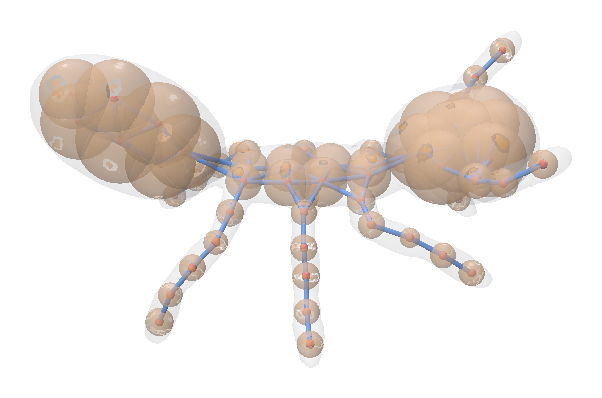
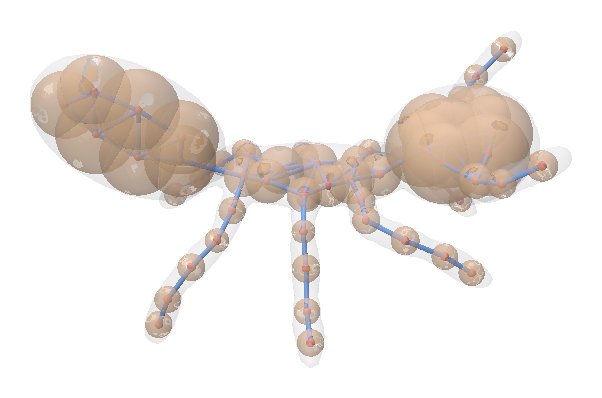
Use the Q-MAT copy with the anchored-edge ordering fix for the skeleton connection; update figures

diff --git a/README.md b/README.md
@@ -85,7 +85,7 @@ conda activate CA
 pip install -r requirements.txt
 ```
 
-The skeleton connection step for mesh inputs uses [Q-MAT](https://github.com/Net-Maker/QMAT) (submodule `skel_connection/QMAT`, C++). It needs CGAL, GMP and MPFR; on Ubuntu:
+The skeleton connection step for mesh inputs uses [Q-MAT](https://github.com/Frank-ZY-Dou/QMAT) (submodule `skel_connection/QMAT`, C++; our copy of [Net-Maker/QMAT](https://github.com/Net-Maker/QMAT) with a fix in the simplification with selected poles, see below). It needs CGAL, GMP and MPFR; on Ubuntu:
 ```angular2html
 sudo apt install cmake build-essential libcgal-dev libgmp-dev libmpfr-dev
 cd skel_connection/QMAT && mkdir build && cd build && cmake -DCMAKE_BUILD_TYPE=Release .. && make -j4 && cd ../../..
@@ -151,6 +151,8 @@ Instead of the vertices of the medial axis, randomly generated points inside the
 python Coverage_Axis_connection.py --mesh ./input/01Ants-12_mesh.off --ma ./input/01Ants-12_mesh.ma --selected ./output/mesh_selected_inner_points.txt --out ./output/mesh_skeleton
 ```
 connects the selected inner points into a skeleton following Sec. 4.3 of the Coverage Axis paper (mesh input with candidates from the Voronoi diagram): the selected points are anchors on the initial medial axis, which is simplified onto them by the edge collapse of Q-MAT. An edge whose two endpoints are anchors is never collapsed, an edge with one anchor endpoint is collapsed onto the anchor, and an edge without anchor endpoints is collapsed onto the optimal sphere of Q-MAT, until only the anchors remain; the skeleton therefore inherits the connectivity of the medial axis. The script runs mode 2 of the Q-MAT executable (`--qmat` gives its path if it is not `./skel_connection/QMAT/build/QMAT`) and prints the size of the skeleton, its number of connected components (one for the ant) and the distance between the selected points and the skeleton vertices (Q-MAT can move an anchor slightly when a collapse onto it would fold the medial mesh).
+
+The Q-MAT copy in the submodule orders the edges incident to a selected point by the distance between the point and the other vertex, instead of the quadric error of the anchor sphere: the latter penalises the large medial balls, whose neighbourhood is then absorbed by smaller anchors, leaving the large ball connected by a single edge. The merged sphere and the collapse rules are unchanged.
 
 The outputs are placed in the folder `output`.
 - `mesh_skeleton.obj` contains the skeleton: the vertices (`v`), the edges (`l`) and the triangles (`f`). MeshLab and Blender display the edges and triangles.
